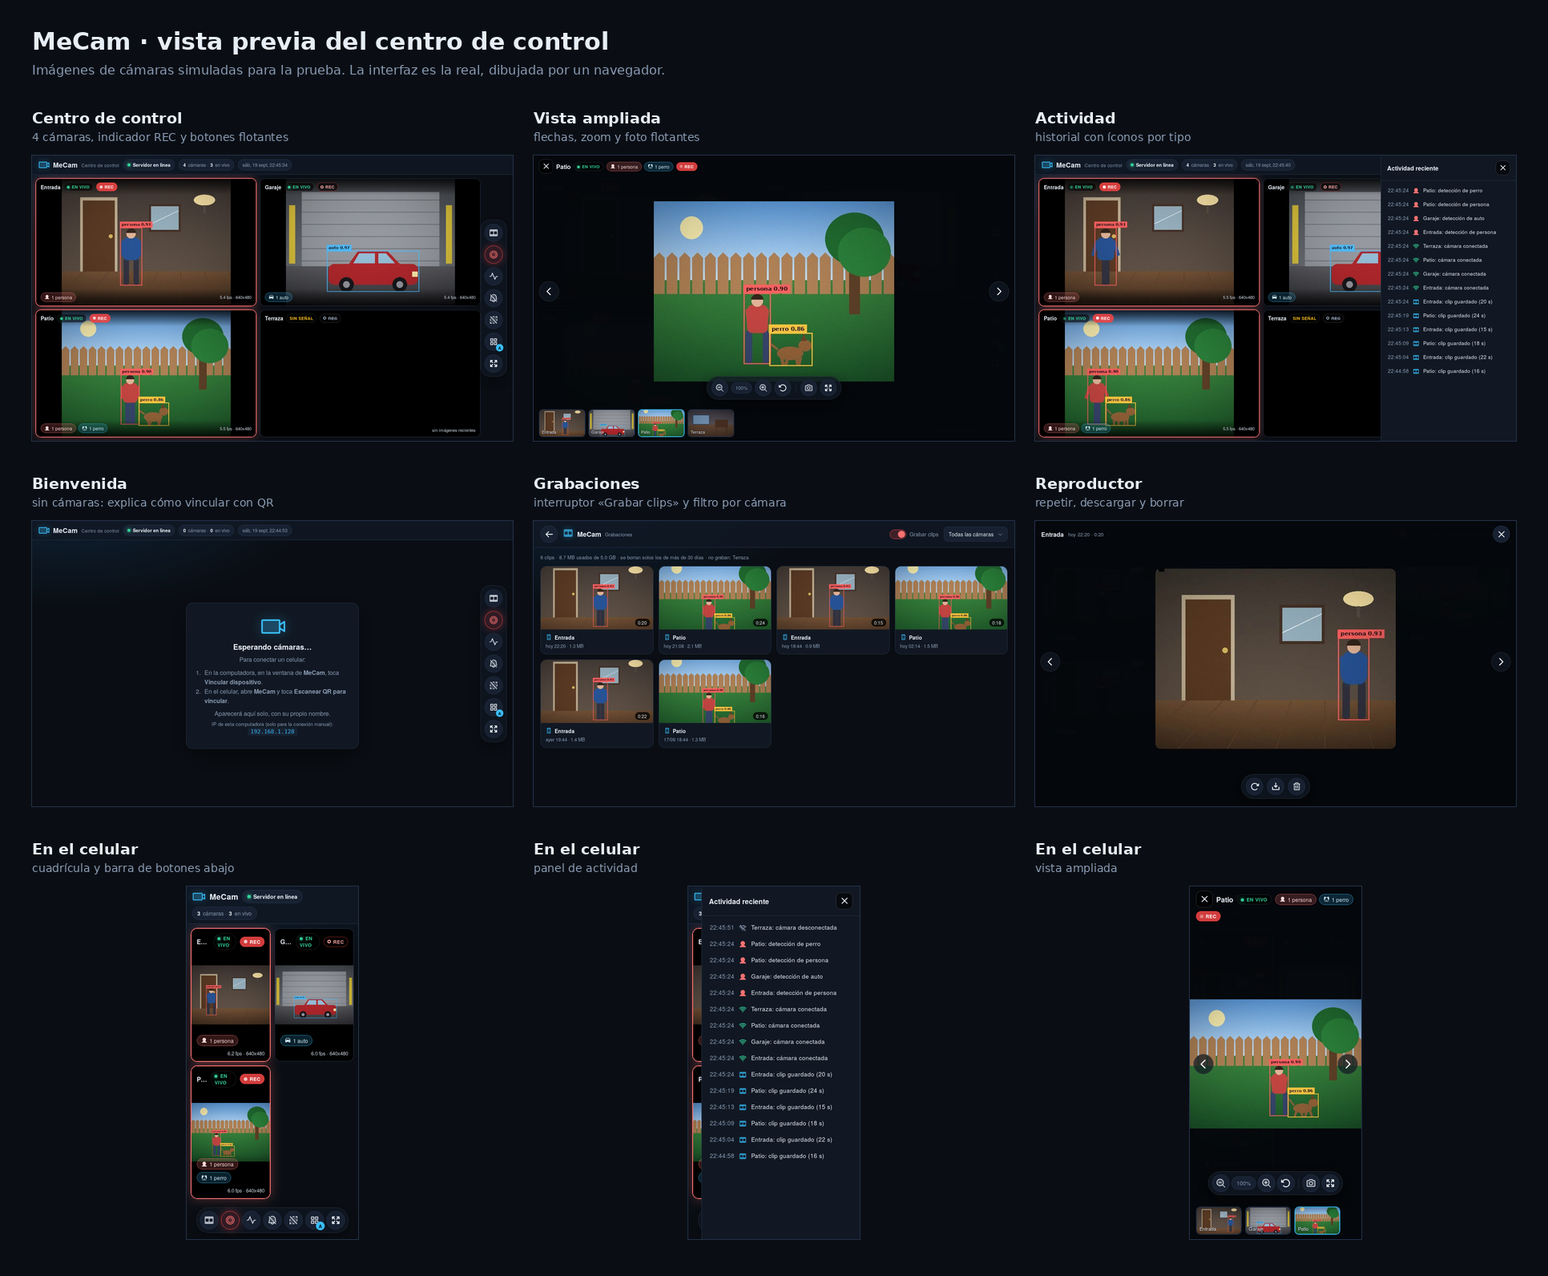
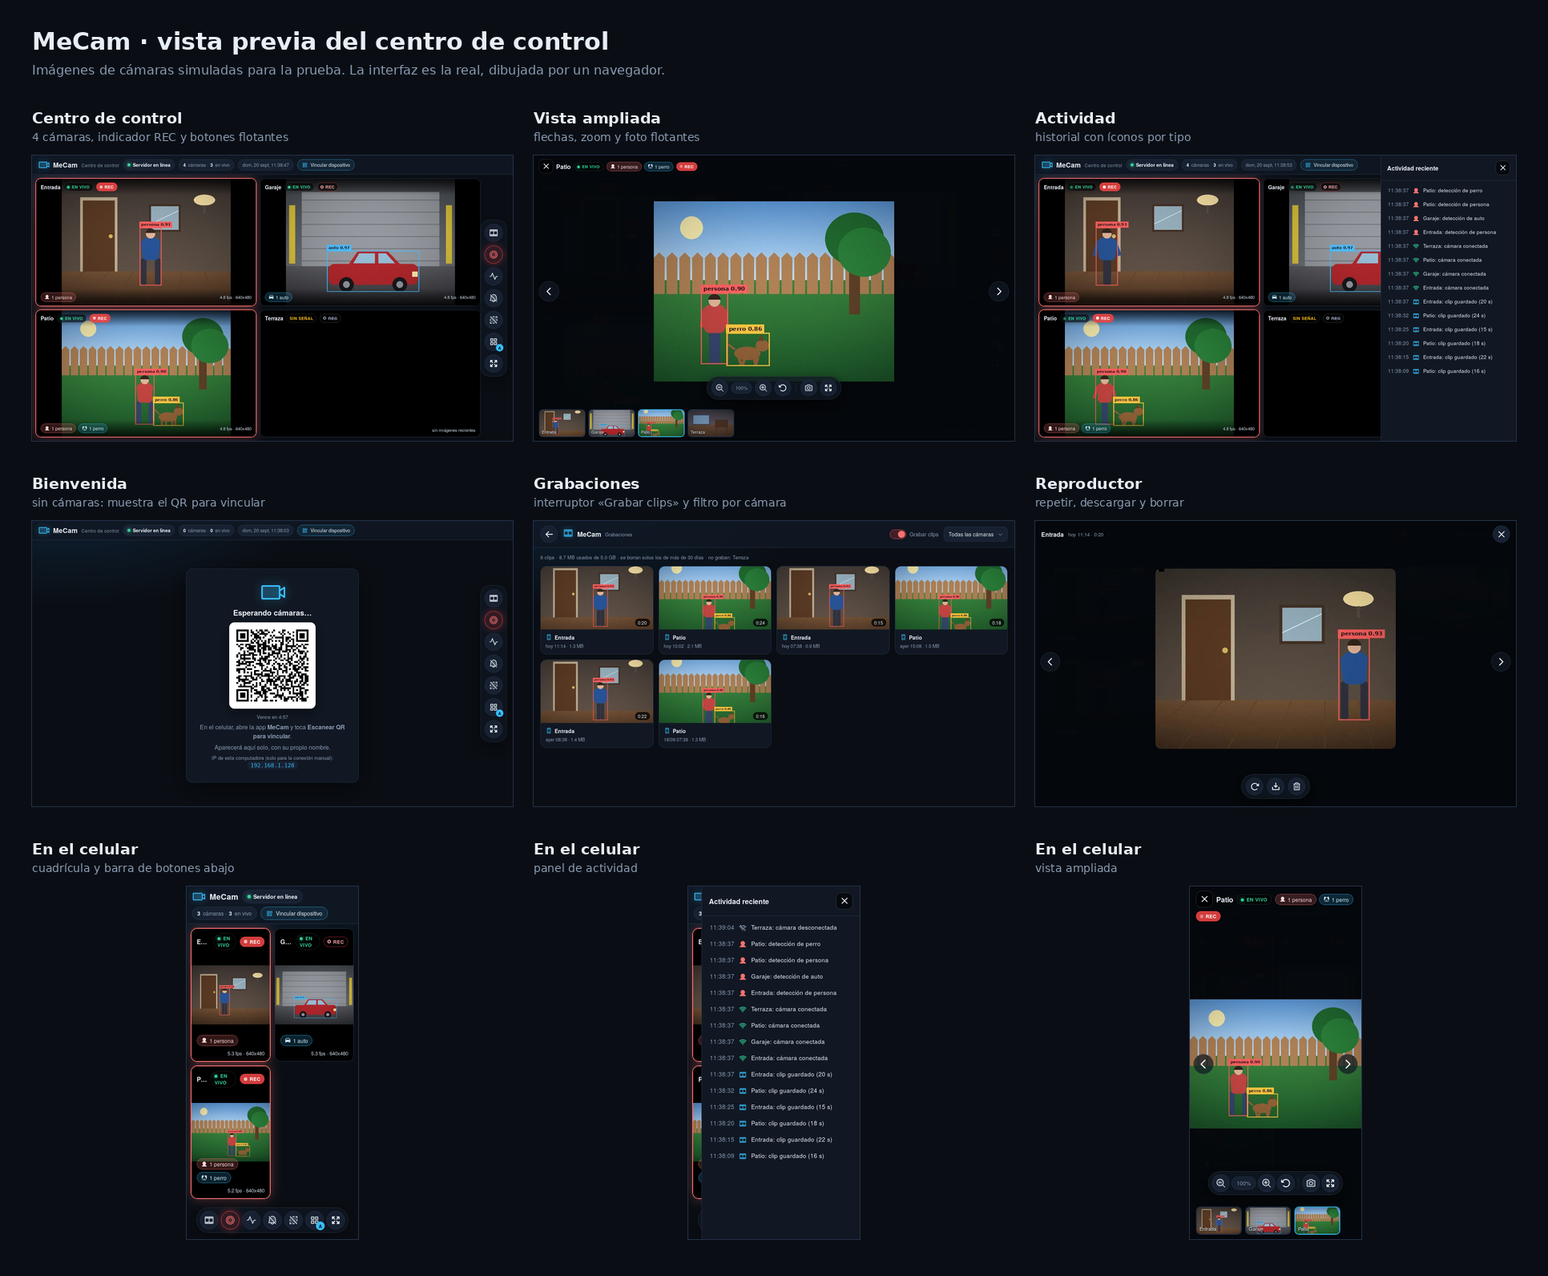
QR de vinculación visible en el centro de control (bienvenida y botón Vincular dispositivo); documentación y vista previa actualizadas

diff --git a/servidor/servidor.py b/servidor/servidor.py
@@ -53,6 +53,7 @@ eventos = deque(maxlen=100)  # registro de actividad (lo más nuevo primero)
 _id_evento = itertools.count(1)
 _id_cuadro = itertools.count(1)
 IP_LOCAL = "127.0.0.1"
+HUELLA = ""                 # huella del certificado (va dentro del QR)
 parando = False             # True mientras el servidor se está deteniendo
 registro = vinculos.Registro()   # dispositivos vinculados por QR
 grabador = grabaciones.Grabador(al_guardar=lambda texto: evento(texto))   # clips cuando se detecta una persona
@@ -456,6 +457,18 @@ svg{width:16px;height:16px;fill:currentColor;flex:none}
 .rec.off{display:none}
 .fab.rec-on{background:rgba(239,68,68,.16);border-color:#ef4444;color:#f87171;box-shadow:0 0 18px rgba(239,68,68,.4)}
 @media (max-width:700px){#dock{gap:6px;padding:7px}.fab{width:42px;height:42px}.fab svg{width:24px;height:24px}}
+[hidden]{display:none!important}
+.pill.accion{cursor:pointer;color:var(--texto);border-color:rgba(56,189,248,.55);background:rgba(56,189,248,.1);font:inherit;font-size:12.5px}
+.pill.accion:hover{background:rgba(56,189,248,.2)}
+.pill.accion svg{width:17px;height:17px;color:var(--acento)}
+.qr-svg{width:230px;height:230px;margin:12px auto;background:#fff;border-radius:14px;padding:10px;box-shadow:0 10px 30px rgba(0,0,0,.45)}
+.qr-svg svg{width:100%;height:100%;display:block}
+.qr-texto{color:var(--suave);line-height:1.5;margin:6px 0}
+.qr-info{font-size:13px;color:var(--suave);margin:4px 0 8px;min-height:1.2em}
+#qrModal{position:fixed;inset:0;z-index:40;background:rgba(4,7,11,.92);display:grid;place-items:center;padding:16px}
+.qr-panel{position:relative;background:var(--panel);border:1px solid var(--borde);border-radius:22px;padding:24px 28px;max-width:440px;text-align:center;box-shadow:0 24px 70px rgba(0,0,0,.6)}
+.qr-panel h2{margin:0 0 4px;font-size:20px}
+.qr-panel .ic{position:absolute;top:12px;right:12px}
 /* el espacio para los botones flotantes va al final para ganarle a la regla base de #grid */
 @media (min-width:701px){#grid{padding-right:86px}}
 @media (max-width:700px){#grid{padding-bottom:calc(92px + env(safe-area-inset-bottom,0px))}}
@@ -467,6 +480,7 @@ svg{width:16px;height:16px;fill:currentColor;flex:none}
   <span class="pill" id="pSrv"><span class="punto"></span><b id="pSrvTxt">Conectando…</b></span>
   <span class="pill"><b id="nCams">0</b> cámaras · <b id="nVivo">0</b> en vivo</span>
   <span class="pill" id="reloj"></span>
+  <button class="pill accion" id="bVincular" data-i="qr" hidden title="Vincular un celular o un aparato para ver las cámaras (V)"><span>Vincular dispositivo</span></button>
   <span class="espacio"></span>
 </header>
 
@@ -486,13 +500,31 @@ svg{width:16px;height:16px;fill:currentColor;flex:none}
   <div class="caja">
     <div class="vacio-ic" data-i="logo"></div>
     <h2>Esperando cámaras…</h2>
-    <p>Para conectar un celular:</p>
-    <ol>
-      <li>En la computadora, en la ventana de <b>MeCam</b>, toca <b>Vincular dispositivo</b>.</li>
-      <li>En el celular, abre <b>MeCam</b> y toca <b>Escanear QR para vincular</b>.</li>
-    </ol>
+    <div id="qrBloque" hidden>
+      <div class="qr-svg" id="qrSvgBienvenida"></div>
+      <p class="qr-info" id="qrInfoBienvenida"></p>
+      <p class="qr-texto">En el celular, abre la app <b>MeCam</b> y toca <b>Escanear QR para vincular</b>.</p>
+    </div>
+    <div id="pasosBloque">
+      <p>Para conectar un celular:</p>
+      <ol>
+        <li>En la computadora, abre esta página o la ventana de <b>MeCam</b> y toca <b>Vincular dispositivo</b>.</li>
+        <li>En el celular, abre <b>MeCam</b> y toca <b>Escanear QR para vincular</b>.</li>
+      </ol>
+    </div>
     <p>Aparecerá aquí solo, con su propio nombre.</p>
     <p class="chico">IP de esta computadora (solo para la conexión manual): <code id="vacioIp">—</code></p>
+  </div>
+</div>
+
+<div id="qrModal" hidden>
+  <div class="qr-panel">
+    <button class="ic" id="qrCerrar" data-i="cerrar" title="Cerrar (Esc)" aria-label="Cerrar"></button>
+    <h2>Vincular dispositivo</h2>
+    <div class="qr-svg" id="qrSvgModal"></div>
+    <p class="qr-info" id="qrInfoModal"></p>
+    <p class="qr-texto"><b>Una cámara:</b> en el celular abre la app MeCam y toca «Escanear QR para vincular».<br><b>Otro aparato para ver las cámaras:</b> escanéalo con su cámara normal y abre el enlace.</p>
+    <p class="chico">Cada QR sirve una sola vez y vence en 5 minutos.</p>
   </div>
 </div>
 
@@ -556,6 +588,7 @@ svg{width:16px;height:16px;fill:currentColor;flex:none}
   let eventosPrev = -1;
   let eventosVistos = -1;           // hasta qué evento ya vio la persona (para el punto rojo)
   let grabacionActiva = true;       // interruptor general de la grabación de clips
+  let puedeVincular = false;        // solo la propia computadora puede generar QR
   const foco = { nombre: null, zoom: 1, x: 0, y: 0 };
 
   function urlStream(n, extra) {
@@ -743,6 +776,9 @@ svg{width:16px;height:16px;fill:currentColor;flex:none}
     camaras = d.camaras || [];
     grabacionActiva = d.grabacion !== false;
     pintarRec();
+    puedeVincular = !!d.puede_vincular;
+    $('#bVincular').hidden = !puedeVincular;
+    gestionarQrBienvenida();
     const nombres = new Set(camaras.map(function (c) { return c.nombre; }));
     let cambio = false;
 
@@ -1033,6 +1069,75 @@ svg{width:16px;height:16px;fill:currentColor;flex:none}
     ponerGrabacion({ activo: !grabacionActiva }, function (d) { return d.activo ? 'Grabación de clips activada' : 'Grabación de clips desactivada'; });
   };
   $('#focoRec').onclick = function () { if (foco.nombre) alternarRecCamara(foco.nombre); };
+  // ---- Vincular dispositivos: QR de un solo uso (solo se ve en la propia computadora)
+  const qr = { token: null, timer: null, destino: null, pendiente: false };
+  const DESTINO_BIENVENIDA = { svg: '#qrSvgBienvenida', info: '#qrInfoBienvenida' };
+  const DESTINO_MODAL = { svg: '#qrSvgModal', info: '#qrInfoModal' };
+  function qrInfo(texto, ok) {
+    if (!qr.destino) return;
+    const e = $(qr.destino.info);
+    e.textContent = texto;
+    e.style.color = ok ? 'var(--ok)' : '';
+  }
+  function qrNuevo() {
+    if (qr.pendiente || !qr.destino) return;
+    qr.pendiente = true;
+    fetch('/api/qr', { method: 'POST' })
+      .then(function (r) { if (!r.ok) throw new Error('http ' + r.status); return r.json(); })
+      .then(function (d) {
+        if (!qr.destino) return;
+        qr.token = d.token;
+        $(qr.destino.svg).innerHTML = d.svg;
+        qrInfo('Vence en ' + Math.floor(d.segundos / 60) + ':' + String(d.segundos % 60).padStart(2, '0'));
+      })
+      .catch(function () { qrInfo('No se pudo generar el QR'); })
+      .then(function () { qr.pendiente = false; });
+  }
+  function qrSondear() {
+    if (!qr.token || !qr.destino) return;
+    fetch('/api/qr/estado?token=' + encodeURIComponent(qr.token), { cache: 'no-store' })
+      .then(function (r) { return r.json(); })
+      .then(function (d) {
+        if (!qr.destino) return;
+        if (d.estado === 'vigente') {
+          qrInfo('Vence en ' + Math.floor(d.segundos / 60) + ':' + String(d.segundos % 60).padStart(2, '0'));
+        } else if (d.estado === 'usado') {
+          qr.token = null;
+          qrInfo('✓ Vinculado' + (d.nombre ? ': ' + d.nombre : ''), true);
+          setTimeout(qrNuevo, 2500);
+        } else {
+          qr.token = null;
+          qrNuevo();
+        }
+      })
+      .catch(function () {});
+  }
+  function qrDetener() {
+    clearInterval(qr.timer); qr.timer = null;
+    if (qr.token) fetch('/api/qr?token=' + encodeURIComponent(qr.token), { method: 'DELETE' }).catch(function () {});
+    if (qr.destino) $(qr.destino.svg).textContent = '';
+    qr.token = null; qr.destino = null;
+  }
+  function qrIniciar(destino) {
+    qrDetener();
+    qr.destino = destino;
+    qrNuevo();
+    qr.timer = setInterval(qrSondear, 2000);
+  }
+  function gestionarQrBienvenida() {
+    $('#qrBloque').hidden = !puedeVincular;
+    $('#pasosBloque').hidden = puedeVincular;
+    const mostrar = puedeVincular && camaras.length === 0 && $('#qrModal').hidden;
+    if (mostrar && qr.destino !== DESTINO_BIENVENIDA) qrIniciar(DESTINO_BIENVENIDA);
+    else if (!mostrar && qr.destino === DESTINO_BIENVENIDA) qrDetener();
+  }
+  function cerrarQr() { $('#qrModal').hidden = true; qrDetener(); gestionarQrBienvenida(); }
+  $('#bVincular').onclick = function () { $('#qrModal').hidden = false; qrIniciar(DESTINO_MODAL); };
+  $('#qrCerrar').onclick = cerrarQr;
+  $('#qrModal').addEventListener('click', function (e) { if (e.target === $('#qrModal')) cerrarQr(); });
+  window.addEventListener('beforeunload', function () {
+    if (qr.token) fetch('/api/qr?token=' + encodeURIComponent(qr.token), { method: 'DELETE', keepalive: true });
+  });
   function iconosPantalla() {
     const n = document.fullscreenElement ? 'reducir' : 'ampliar';
     cambiarIcono($('#bPantalla'), n);
@@ -1072,7 +1177,8 @@ svg{width:16px;height:16px;fill:currentColor;flex:none}
     if (e.ctrlKey || e.metaKey || e.altKey) return;
     const ampliada = !$('#foco').hidden;
     if (e.key === 'Escape') {
-      if (ampliada) cerrarFoco(); else alternarActividad(false);
+      if (!$('#qrModal').hidden) cerrarQr();
+      else if (ampliada) cerrarFoco(); else alternarActividad(false);
     } else if (ampliada) {
       if (e.key === 'ArrowLeft') vecina(-1);
       else if (e.key === 'ArrowRight') vecina(1);
@@ -1090,6 +1196,7 @@ svg{width:16px;height:16px;fill:currentColor;flex:none}
       else if (k === 'f') pantallaCompleta(document.documentElement);
       else if (k === 'g') location.href = '/grabaciones';
       else if (k === 'q') $('#bRec').click();
+      else if (k === 'v' && puedeVincular) $('#bVincular').click();
     }
   });
   window.addEventListener('resize', layout);
@@ -1260,7 +1367,8 @@ async def estado(request):
         })
     total = eventos[0]["id"] if eventos else 0
     return web.json_response(
-        {"ip": IP_LOCAL, "grabacion": grabador.activo, "camaras": lista, "eventos": list(eventos)[:40], "total_eventos": total},
+        {"ip": IP_LOCAL, "grabacion": grabador.activo, "camaras": lista, "eventos": list(eventos)[:40], "total_eventos": total,
+         "puede_vincular": es_local(request.remote)},
         headers={"Cache-Control": "no-store"},
     )
 
@@ -1317,6 +1425,76 @@ async def api_grabaciones(request):
     datos = grabador.resumen()
     datos["clips"] = grabador.listar()
     return web.json_response(datos, headers={"Cache-Control": "no-store"})
+
+
+def es_local(remoto):
+    """¿El pedido viene de esta misma computadora? (Solo desde aquí se pueden generar QR de vinculación.)"""
+    try:
+        return ipaddress.ip_address(remoto or "").is_loopback
+    except ValueError:
+        return False
+
+
+def svg_qr(texto):
+    """Dibuja el QR como imagen vectorial (SVG), sin depender de nada en el navegador."""
+    import qrcode
+    qr = qrcode.QRCode(error_correction=qrcode.constants.ERROR_CORRECT_M, border=2)
+    qr.add_data(texto)
+    qr.make(fit=True)
+    m = qr.get_matrix()
+    n = len(m)
+    trazos = []
+    for y, fila in enumerate(m):
+        x = 0
+        while x < n:
+            if fila[x]:
+                x0 = x
+                while x < n and fila[x]:
+                    x += 1
+                trazos.append(f"M{x0} {y}h{x - x0}v1h-{x - x0}z")
+            else:
+                x += 1
+    return (f'<svg xmlns="http://www.w3.org/2000/svg" viewBox="0 0 {n} {n}" shape-rendering="crispEdges">'
+            f'<rect width="{n}" height="{n}" fill="#fff"/><path d="{"".join(trazos)}" fill="#000"/></svg>')
+
+
+def _solo_pc():
+    return web.json_response({"error": "Solo desde la computadora donde corre MeCam"}, status=403)
+
+
+async def api_qr_nuevo(request):
+    """Crea un código de un solo uso y devuelve el QR listo para mostrar."""
+    if not es_local(request.remote):
+        return _solo_pc()
+    token = registro.nuevo_token()
+    try:
+        svg = svg_qr(f"https://{IP_LOCAL}:{PORT}/v/{token}#fp={HUELLA}")
+    except ImportError:
+        registro.anular_token(token)
+        return web.json_response({"error": "Falta el componente del QR (qrcode)"}, status=500)
+    return web.json_response({"token": token, "svg": svg, "segundos": vinculos.MINUTOS_QR * 60},
+                             headers={"Cache-Control": "no-store"})
+
+
+async def api_qr_estado(request):
+    if not es_local(request.remote):
+        return _solo_pc()
+    token = request.query.get("token", "")
+    estado_token = registro.estado_token(token)
+    nombre = None
+    if estado_token == "usado":
+        lista = registro.lista()
+        if lista:
+            nombre = max(lista, key=lambda d: d["creado"])["nombre"]
+    return web.json_response({"estado": estado_token, "segundos": registro.segundos_restantes(token), "nombre": nombre},
+                             headers={"Cache-Control": "no-store"})
+
+
+async def api_qr_anular(request):
+    if not es_local(request.remote):
+        return _solo_pc()
+    registro.anular_token(request.query.get("token", ""))
+    return web.json_response({"ok": True})
 
 
 async def api_grabacion(request):
@@ -1459,10 +1637,11 @@ def ip_local():
         s.close()
 
 
-async def iniciar(ctx, ip, parar=None, al_arrancar=None):
+async def iniciar(ctx, ip, parar=None, al_arrancar=None, huella=""):
     """Levanta el servidor. Sin 'parar' corre hasta Ctrl+C; con 'parar' termina cuando se activa."""
-    global IP_LOCAL, parando
+    global IP_LOCAL, parando, HUELLA
     IP_LOCAL = ip
+    HUELLA = huella
     parando = False
     app = web.Application(middlewares=[autorizar])
     app.add_routes([
@@ -1478,6 +1657,9 @@ async def iniciar(ctx, ip, parar=None, al_arrancar=None):
         web.get("/api/grabaciones", api_grabaciones),
         web.delete("/api/grabaciones/{id}", api_borrar),
         web.post("/api/grabacion", api_grabacion),
+        web.post("/api/qr", api_qr_nuevo),
+        web.get("/api/qr/estado", api_qr_estado),
+        web.delete("/api/qr", api_qr_anular),
         web.get("/miniatura/{id}", miniatura),
         web.get("/clip/{id}", clip),
         web.get("/archivo/{id}", archivo),
@@ -1587,16 +1769,16 @@ class Servidor:
             self.corriendo = True
             self.listo.set()
 
-        await iniciar(ctx, self.ip, self.parar, listo)
+        await iniciar(ctx, self.ip, self.parar, listo, self.huella)
 
 
 def main():
     ip = ip_local()
-    ruta_cert, ruta_clave, _ = vinculos.asegurar_certificado(ip)
+    ruta_cert, ruta_clave, huella = vinculos.asegurar_certificado(ip)
     ctx = ssl.SSLContext(ssl.PROTOCOL_TLS_SERVER)
     ctx.load_cert_chain(ruta_cert, ruta_clave)
     try:
-        asyncio.run(iniciar(ctx, ip))
+        asyncio.run(iniciar(ctx, ip, huella=huella))
     except KeyboardInterrupt:
         pass
 

diff --git a/FAQ.md b/FAQ.md
@@ -61,6 +61,7 @@ Los botones están en una **barra flotante**: a la derecha en la computadora y a
 |---|---|---|
 | Grabaciones | Abre la página con los clips guardados | **G** |
 | Grabación de clips | Interruptor general: **rojo** = activada, **punteado** = desactivada | **Q** |
+| Vincular dispositivo | Muestra el QR para conectar un celular (solo se ve en la propia computadora) | **V** |
 | Actividad | Historial con un ícono por tipo de aviso. Un **punto rojo** te avisa si hay algo nuevo | **A** |
 | Alerta sonora | Suena un aviso cuando aparece una persona (la campana se ve tachada cuando está apagada) | **S** |
 | Sin recuadros | Muestra el video original, sin los recuadros de detección | **R** |
@@ -98,7 +99,7 @@ Vincular es "presentar" un celular a tu computadora. En la ventana de MeCam hace
 
 ### ¿Cómo vinculo un celular cámara?
 
-1. En la ventana de MeCam de la computadora, haz clic en **Vincular dispositivo**. Aparece un QR.
+1. En la computadora, abre el centro de control (`https://localhost:8443/ver`, o el botón **Centro de control** de la ventana de MeCam). Mientras no haya cámaras, **el QR aparece solo** en la pantalla de bienvenida. Si ya hay cámaras conectadas, haz clic en el botón **Vincular dispositivo** de arriba (o pulsa **V**). También puedes usar el botón **Vincular dispositivo** de la ventana de MeCam.
 2. En el celular abre **MeCam** y toca **Escanear QR para vincular**. Toca **Permitir** si pide permiso de cámara.
 3. Apunta la cámara del celular al QR. Cuando aparezca «¡Listo! Vinculada como «Cámara 1»», toca **Iniciar cámara**.
 
@@ -106,11 +107,15 @@ El nombre lo asigna el servidor («Cámara 1», «Cámara 2»…). Puedes cambia
 
 ### ¿Cómo vinculo otro aparato para ver las cámaras?
 
-1. En la computadora haz clic en **Vincular dispositivo**.
+1. En la computadora haz clic en **Vincular dispositivo** (en el centro de control o en la ventana de MeCam).
 2. Con la **cámara normal** del celular (o de la tablet) escanea el QR y abre el enlace que aparece.
 3. Saldrá el aviso «Tu conexión no es privada»: toca **Configuración avanzada** y luego **Acceder a ... (sitio no seguro)**. Se abre el centro de control, ya vinculado. La próxima vez basta con entrar a la dirección de siempre.
 
 El aparato debe estar en el mismo Wi-Fi que la computadora al vincularlo.
+
+### ¿Por qué no veo el QR o el botón «Vincular dispositivo»?
+
+Por seguridad, el QR **solo se muestra en la computadora donde corre MeCam**. Si abres el centro de control desde otro aparato (otro celular, otra computadora, o por Tailscale), no aparece el QR ni el botón, y en su lugar verás los pasos para vincular. Abre `https://localhost:8443/ver` en la computadora de MeCam. Si aun así no aparece, comprueba que el servidor esté iniciado y que hayas actualizado MeCam en la computadora (puede faltar el componente del QR: mira «La ventana de MeCam no se abre»).
 
 ### ¿Cada QR es distinto? ¿Se puede reutilizar?
 
@@ -374,6 +379,7 @@ Otra app está usando la cámara. Ciérrala, cierra MeCam y vuelve a abrirla. Si
 - **«Ese QR ya se usó o venció»:** cada QR sirve una sola vez y dura 5 minutos. La ventana muestra uno nuevo automáticamente; escanea el que se ve en ese momento.
 - **«No se pudo verificar la computadora»:** escaneaste un QR que ya no corresponde a esta computadora. Escanea el más reciente y comprueba que no haya dos ventanas de MeCam abiertas.
 - **«No se pudo conectar»:** el celular y la computadora deben estar en el **mismo Wi-Fi**, con el servidor en marcha, y el firewall debe permitir el puerto **8443** (botón **Abrir puertos del firewall** de la ventana de MeCam).
+- **El escáner se abre en horizontal:** actualiza la app a la **versión 9 o superior**; desde ahí el escáner se abre en vertical.
 - **El escáner no abre la cámara:** en la app toca **Permitir** cuando pida el permiso de cámara. Si lo negaste, actívalo en **Ajustes**, **Aplicaciones**, **MeCam**, **Permisos**.
 
 ### La app no se instala o dice que hay un conflicto con la versión instalada

diff --git a/README.md b/README.md
@@ -14,7 +14,7 @@ Convierte celulares Android viejos en cámaras de seguridad con detección de pe
 
 1. **App MeCam (Android):** corre en segundo plano (con la pantalla apagada) y transmite video de forma constante a la computadora. Si el celular se calienta, baja la velocidad y, si sigue subiendo, se pausa hasta que se enfríe. Detecta si el celular está vertical u horizontal y adapta la imagen.
 2. **Servidor (computadora):** recibe el video, detecta y sigue personas y autos con YOLO, y los muestra en un centro de control web con todas las cámaras. Cuando detecta una persona, guarda un clip corto que se puede ver, descargar o borrar desde la página de grabaciones.
-3. **Vinculación por QR:** para conectar un celular (o un aparato que solo quiera ver las cámaras) se escanea un QR que muestra la ventana de MeCam. Cada QR es distinto y sirve una sola vez, cada dispositivo recibe su propia credencial y las cámaras se conectan cifradas.
+3. **Vinculación por QR:** para conectar un celular (o un aparato que solo quiera ver las cámaras) se escanea un QR que muestra el centro de control. Cada QR es distinto y sirve una sola vez, cada dispositivo recibe su propia credencial y las cámaras se conectan cifradas.
 
 El video no sale de tu red: no se sube a ningún servidor de terceros.
 
@@ -22,7 +22,7 @@ El video no sale de tu red: no se sube a ningún servidor de terceros.
 
 1. En el celular, abre la sección **Releases** de este repositorio y descarga `MeCam.apk`.
 2. Ábrelo y permite instalar apps de origen desconocido si el celular lo pide.
-3. En la app toca **Escanear QR para vincular** y apunta al QR que muestra la ventana de MeCam en la computadora (botón **Vincular dispositivo**). Después toca **Iniciar cámara**.
+3. En la app toca **Escanear QR para vincular** y apunta al QR que aparece en el centro de control de la computadora (o en la ventana de MeCam, botón **Vincular dispositivo**). Después toca **Iniciar cámara**.
 
 La app avisa cuando hay una versión nueva y se actualiza desde dentro (Android siempre pide confirmar la instalación).
 
@@ -32,7 +32,7 @@ La app avisa cuando hay una versión nueva y se actualiza desde dentro (Android 
 2. Descarga el proyecto (en esta página, **Code** y luego **Download ZIP**) y extráelo. Abre la carpeta `servidor`.
 3. Haz doble clic en **Iniciar MeCam.bat**. La primera vez instala lo necesario y tarda varios minutos.
 4. En la ventana de MeCam, haz clic en el botón verde **Iniciar servidor**.
-5. Haz clic en **Vincular dispositivo** para que aparezca el QR (uno distinto, de un solo uso, por cada celular).
+5. El QR aparece solo en la pantalla de bienvenida del centro de control (uno distinto, de un solo uso, por cada celular). Más tarde, el botón **Vincular dispositivo** muestra uno nuevo.
 
 La ventana abre el centro de control (`https://localhost:8443/ver`) y muestra la lista de dispositivos vinculados. La computadora y los celulares deben estar en la misma red Wi-Fi. Si algo no conecta, usa el botón **Abrir puertos del firewall** (una sola vez) o revisa las [preguntas frecuentes](FAQ.md).
 
